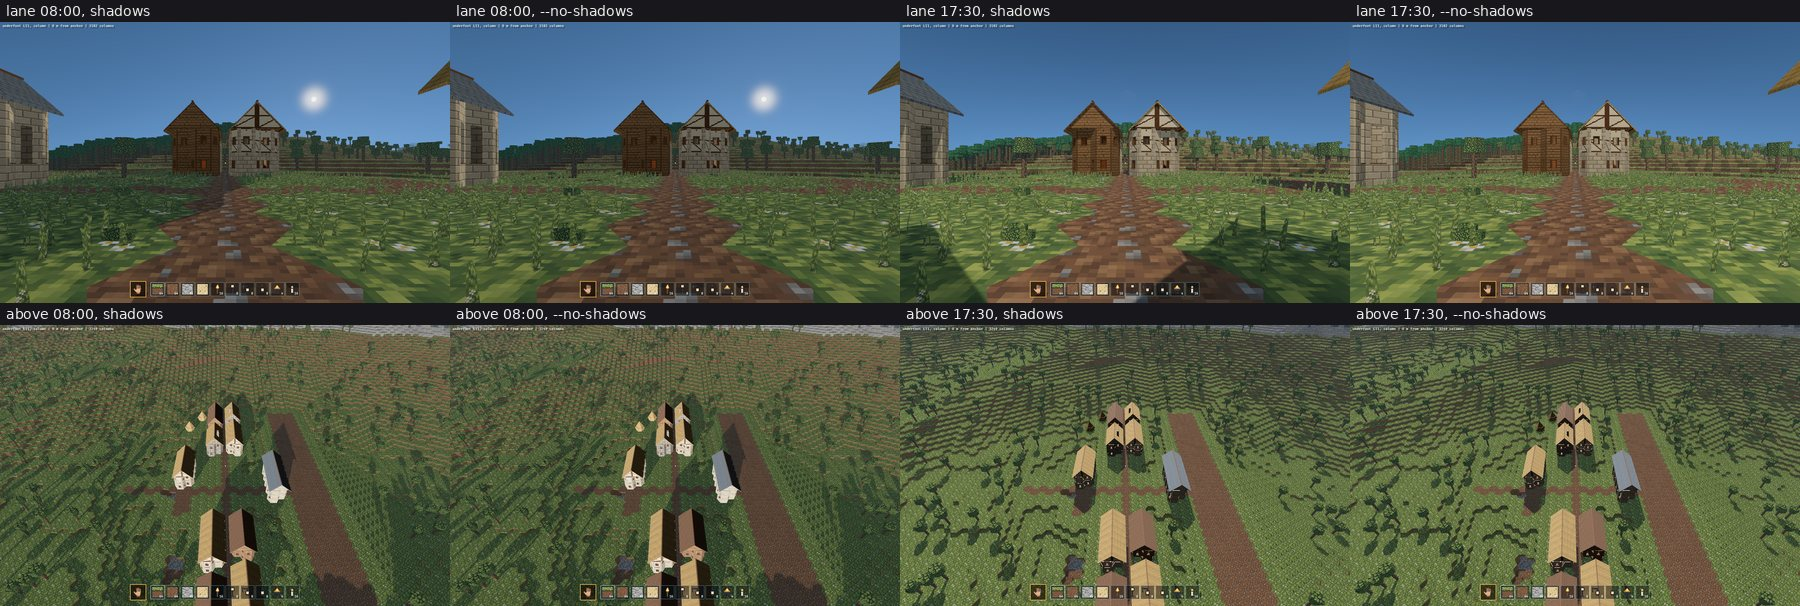
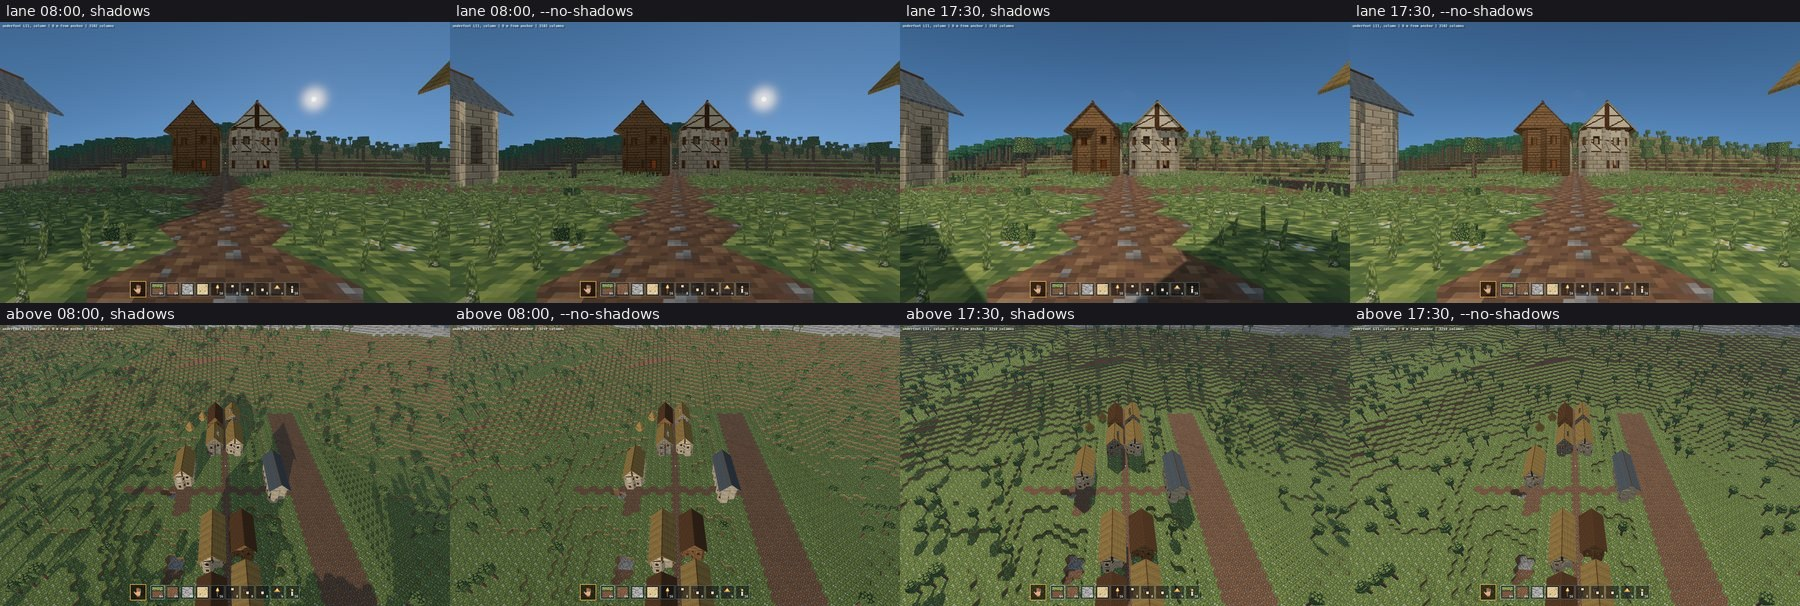
sun-shadows: the views from 60 m retaken, lit by the field, shadows on and off
day.jpg's bottom row and shadows-on-off.jpg's bottom row now hold the
retakes on the build that lights towns by the field in every run and
honours --no-shadows in a still. The houses' shaded faces are no longer
near black. Shadows on and off differ, by the long morning shadows and
the dark beside each house in the evening.

Claude-Session: https://claude.ai/code/session_01SztpvFkncDFbmhJsds55PW

diff --git a/docs/screenshots/sun-shadows/README.md b/docs/screenshots/sun-shadows/README.md
@@ -118,14 +118,17 @@ row) was captured without the field-lit plugin, which a still with no walker
 never added (`cities-in-the-world` slice 4a, "The dark towns"). The houses in
 those shots are lit by Bevy's own sun and ambient, so their faces turned from
 the sun are near black. The terrain and its shadows in them are right. The
-views from above are retaken on the fixed build.
+views from above were retaken on the fixed build on 2026-10-01, and both
+sheets' bottom rows now hold the retakes.
 
 A second fault, found 2026-10-01 when the retakes came back: the two
 `--no-shadows` shots from above were byte for byte the shadowed ones. The
 flag was read only in a walking run, inside `desktop.rs`'s block for runs that
 are not photos, so a `--view column` still ignored it and drew its shadows.
 `shadows-on-off.jpg`'s first bottom row compared shadows with shadows. The
-flag now applies in every run, and the two views are retaken. `--open-doors`
+flag now applies in every run, and the two views were retaken with it. At
+08:00 the stone house's long shadow across the lane, and the trees' shadows on
+the slope, are the difference. At 17:30 it is the dark beside each house. `--open-doors`
 and `--room-sky` are still read only when walking. Their photos from above
 draw the doors shut, which no view from 60 m can see.
 
